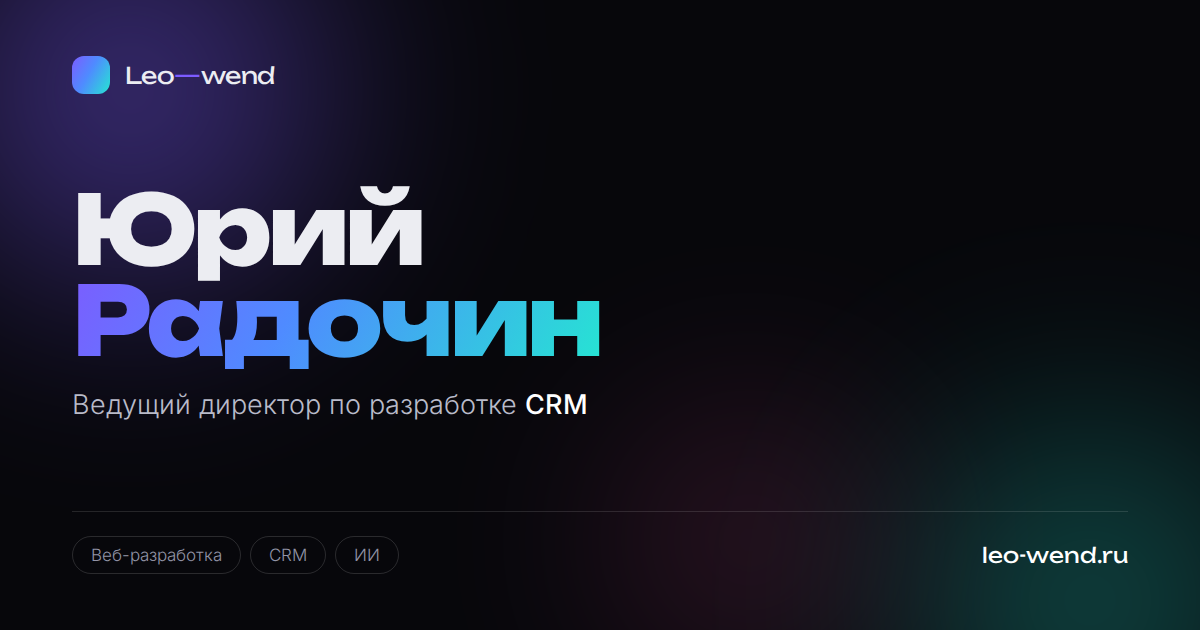
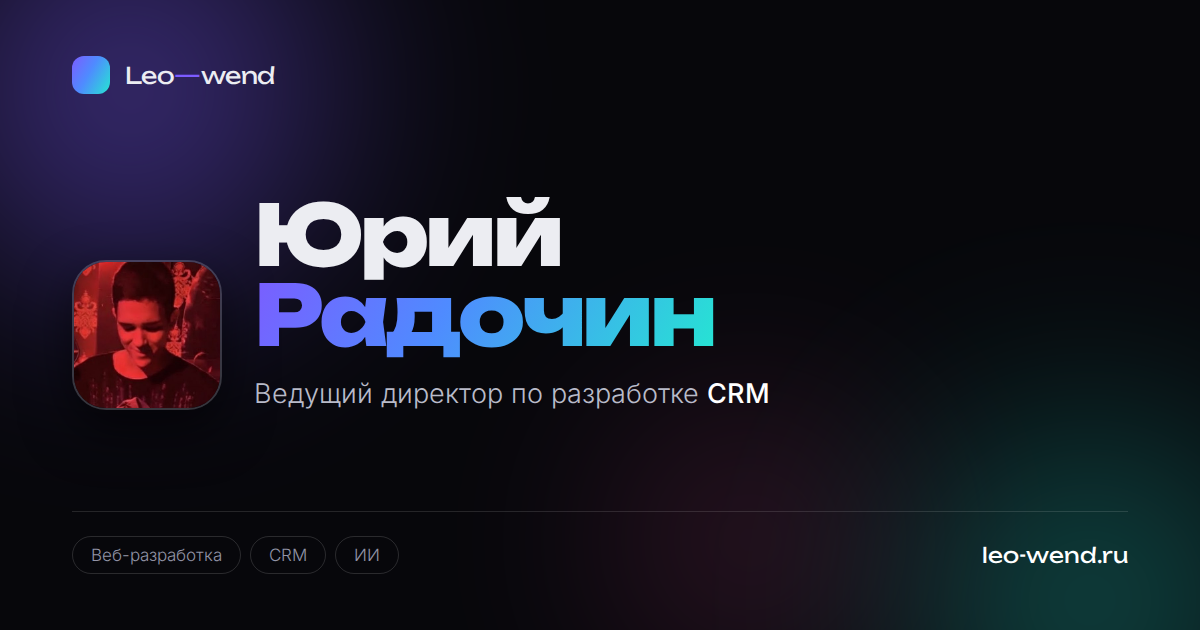
Профиль с обложкой и аватаром, подразделы, фото
- новый раздел «Профиль»: обложка, аватар, карточка данных
  (возраст, город, учёба, статус, проект, роль);
- «Обо мне» разбит на подразделы, добавлен портрет;
- «Направления» разделены на «Сейчас в работе» и «Изучал и пробовал»;
- убраны формулировки про поиск работы: контакты — просто для связи;
- фото нарезаны в три кадра (аватар, обложка, портрет), аватар добавлен
  в превью для соцсетей.

Claude-Session: https://claude.ai/code/session_01DrCrs8EP9XLSGEr72qkW1X

Changed region(s): [[0.0617, 0.2714, 0.6475, 0.6635]]

diff --git a/index.html b/index.html
@@ -68,6 +68,7 @@
     <span class="nav__logotext">Leo<i>—</i>wend</span>
   </a>
   <nav class="nav__menu" aria-label="Основная навигация">
+    <a href="#profile" data-link>Профиль</a>
     <a href="#about" data-link>Обо мне</a>
     <a href="#stack" data-link>Направления</a>
     <a href="#path" data-link>Путь</a>
@@ -81,11 +82,12 @@
 
 <div class="mmenu" id="mobileMenu" aria-hidden="true">
   <nav class="mmenu__list" aria-label="Мобильная навигация">
-    <a href="#about" data-link><em>01</em> Обо мне</a>
-    <a href="#stack" data-link><em>02</em> Направления</a>
-    <a href="#path" data-link><em>03</em> Путь</a>
-    <a href="#project" data-link><em>04</em> Проект</a>
-    <a href="#contact" data-link><em>05</em> Связаться</a>
+    <a href="#profile" data-link><em>01</em> Профиль</a>
+    <a href="#about" data-link><em>02</em> Обо мне</a>
+    <a href="#stack" data-link><em>03</em> Направления</a>
+    <a href="#path" data-link><em>04</em> Путь</a>
+    <a href="#project" data-link><em>05</em> Проект</a>
+    <a href="#contact" data-link><em>06</em> Связаться</a>
   </nav>
   <div class="mmenu__foot">
     <span>Юрий Радочин</span>
@@ -101,7 +103,7 @@
 
     <div class="hero__inner">
       <p class="hero__eyebrow" data-reveal>
-        <i class="dot"></i> Доступен для проектов · Краснодар
+        <i class="dot"></i> Leo-wend · Краснодар
       </p>
 
       <h1 class="hero__title" data-words>
@@ -122,7 +124,7 @@
             <span>Смотреть проект</span>
             <svg viewBox="0 0 24 24" aria-hidden="true"><path d="M5 12h14M13 6l6 6-6 6"/></svg>
           </a>
-          <a href="#contact" class="btn btn--ghost" data-magnet data-link><span>Связаться</span></a>
+          <a href="#profile" class="btn btn--ghost" data-magnet data-link><span>Мой профиль</span></a>
         </div>
       </div>
 
@@ -147,37 +149,100 @@
     </div>
   </div>
 
+  <!-- ─────────── ПРОФИЛЬ ─────────── -->
+  <section class="section profile" id="profile">
+    <div class="wrap">
+      <header class="shead">
+        <span class="shead__num" data-reveal>01</span>
+        <h2 class="shead__title" data-reveal>Профиль</h2>
+      </header>
+
+      <article class="pf" data-reveal>
+        <div class="pf__cover">
+          <img src="assets/img/cover.jpg" alt="" aria-hidden="true" width="1440" height="844" loading="lazy">
+          <span class="pf__veil" aria-hidden="true"></span>
+        </div>
+
+        <div class="pf__top">
+          <figure class="pf__ava">
+            <img src="assets/img/avatar.jpg" alt="Юрий Радочин" width="440" height="440">
+            <i class="pf__online" aria-hidden="true"></i>
+          </figure>
+
+          <div class="pf__id">
+            <h3 class="pf__name">Юрий Радочин</h3>
+            <p class="pf__tag">Разработка ( LoRi )</p>
+          </div>
+
+          <div class="pf__act">
+            <a class="btn btn--primary" href="https://t.me/ITLeoWend" target="_blank" rel="noopener" data-magnet>
+              <span>Telegram</span>
+              <svg viewBox="0 0 24 24" aria-hidden="true"><path d="M7 17L17 7M9 7h8v8"/></svg>
+            </a>
+            <a class="btn btn--ghost" href="https://vk.com/yundezi" target="_blank" rel="noopener" data-magnet>
+              <span>ВКонтакте</span>
+            </a>
+          </div>
+        </div>
+
+        <dl class="pf__grid">
+          <div><dt>Возраст</dt><dd>18 лет</dd></div>
+          <div><dt>Город</dt><dd>Краснодар</dd></div>
+          <div><dt>Образование</dt><dd>Академия ТОР, 3 курс</dd></div>
+          <div><dt>Статус</dt><dd>ИП</dd></div>
+          <div><dt>Проект</dt><dd>Leo-wend</dd></div>
+          <div><dt>Роль</dt><dd>Директор по разработке CRM</dd></div>
+        </dl>
+      </article>
+    </div>
+  </section>
+
   <!-- ─────────── ОБО МНЕ ─────────── -->
   <section class="section about" id="about">
     <div class="wrap">
       <header class="shead">
-        <span class="shead__num" data-reveal>01</span>
+        <span class="shead__num" data-reveal>02</span>
         <h2 class="shead__title" data-reveal>Обо мне</h2>
       </header>
 
       <div class="about__grid">
         <div class="about__text">
-          <p class="lead" data-reveal>
-            Меня зовут <b>Юрий Радочин</b>, мне 18 лет. Учусь на 3 курсе
-            <b>Компьютерной академии ТОР</b> и веду разработку в проекте <b>Leo-wend</b>.
-          </p>
-          <p data-reveal data-delay="1">
-            Я пробовал себя почти везде: информационная безопасность и анонимность,
-            социальная инженерия, разработка игр, 3D-моделирование. Каждое направление дало
-            свой угол зрения — понимание того, как системы ломаются, как думают пользователи
-            и как рождается визуал.
-          </p>
-          <p data-reveal data-delay="2">
-            В итоге я осознанно остался в <b>веб-разработке</b>: здесь всё это соединяется в
-            один продукт. Сейчас углубляюсь в <b>искусственный интеллект</b> и строю
-            CRM-решения, которые экономят людям часы каждый день.
-          </p>
-          <p data-reveal data-delay="3">
-            Работаю официально — оформлено <b>ИП</b>.
-          </p>
+          <section class="sub" data-reveal>
+            <h3 class="sub__title"><i aria-hidden="true"></i>Коротко</h3>
+            <p class="lead">
+              Меня зовут <b>Юрий Радочин</b>, мне 18 лет. Учусь на 3 курсе
+              <b>Компьютерной академии ТОР</b> и веду разработку в проекте <b>Leo-wend</b>.
+              Всё оформлено официально — есть <b>ИП</b>.
+            </p>
+          </section>
+
+          <section class="sub" data-reveal data-delay="1">
+            <h3 class="sub__title"><i aria-hidden="true"></i>Откуда я пришёл</h3>
+            <p>
+              Я пробовал себя почти везде: информационная безопасность и анонимность,
+              социальная инженерия, разработка игр, 3D-моделирование. Каждое направление дало
+              свой угол зрения — понимание того, как системы ломаются, как думают пользователи
+              и как рождается визуал.
+            </p>
+          </section>
+
+          <section class="sub" data-reveal data-delay="2">
+            <h3 class="sub__title"><i aria-hidden="true"></i>Чем занят сейчас</h3>
+            <p>
+              В итоге я осознанно остался в <b>веб-разработке</b>: здесь всё это соединяется в
+              один продукт. Сейчас углубляюсь в <b>искусственный интеллект</b> и строю
+              CRM-решения, которые экономят людям часы каждый день.
+            </p>
+          </section>
         </div>
 
-        <aside class="about__card" data-reveal data-delay="2" data-tilt>
+        <aside class="about__side">
+        <figure class="shot" data-reveal data-delay="1" data-tilt>
+          <img src="assets/img/portrait.jpg" alt="Юрий Радочин" width="620" height="878" loading="lazy">
+          <figcaption>Юрий Радочин</figcaption>
+        </figure>
+
+        <div class="about__card" data-reveal data-delay="2" data-tilt>
           <div class="about__card-glow" aria-hidden="true"></div>
           <ul class="facts">
             <li><span>Возраст</span><em><b data-count="18">18</b></em></li>
@@ -187,8 +252,9 @@
           </ul>
           <div class="about__card-foot">
             <i class="pulse" aria-hidden="true"></i>
-            <span>Открыт к сотрудничеству</span>
+            <span>Обычно отвечаю быстро</span>
           </div>
+        </div>
         </aside>
       </div>
     </div>
@@ -198,10 +264,12 @@
   <section class="section stack" id="stack">
     <div class="wrap">
       <header class="shead">
-        <span class="shead__num" data-reveal>02</span>
+        <span class="shead__num" data-reveal>03</span>
         <h2 class="shead__title" data-reveal>Направления</h2>
         <p class="shead__sub" data-reveal data-delay="1">Чем я занимаюсь и что успел попробовать</p>
       </header>
+
+      <h3 class="sub__title sub__title--wide" data-reveal><i aria-hidden="true"></i>Сейчас в работе</h3>
 
       <div class="cards">
         <article class="card card--hero" data-reveal data-tilt>
@@ -234,6 +302,11 @@
           <ul class="tags"><li>LLM</li><li>Автоматизация</li><li>Данные</li></ul>
         </article>
 
+      </div>
+
+      <h3 class="sub__title sub__title--wide" data-reveal><i aria-hidden="true"></i>Изучал и пробовал</h3>
+
+      <div class="cards">
         <article class="card" data-reveal data-tilt>
           <span class="card__idx">04</span>
           <div class="card__icon" aria-hidden="true">
@@ -271,7 +344,7 @@
   <section class="section path" id="path">
     <div class="wrap">
       <header class="shead">
-        <span class="shead__num" data-reveal>03</span>
+        <span class="shead__num" data-reveal>04</span>
         <h2 class="shead__title" data-reveal>Путь</h2>
         <p class="shead__sub" data-reveal data-delay="1">Как поиск себя превратился в специализацию</p>
       </header>
@@ -321,7 +394,7 @@
   <section class="section project" id="project">
     <div class="wrap">
       <header class="shead">
-        <span class="shead__num" data-reveal>04</span>
+        <span class="shead__num" data-reveal>05</span>
         <h2 class="shead__title" data-reveal>Проект</h2>
       </header>
 
@@ -367,17 +440,17 @@
   <section class="section contact" id="contact">
     <div class="wrap">
       <header class="shead">
-        <span class="shead__num" data-reveal>05</span>
+        <span class="shead__num" data-reveal>06</span>
         <h2 class="shead__title" data-reveal>Связаться</h2>
       </header>
 
       <div class="contact__box" data-reveal data-delay="1">
         <h3 class="contact__big" data-words>
           <span class="line"><span class="word" data-split>Давайте</span></span>
-          <span class="line"><span class="word word--outline">работать</span></span>
+          <span class="line"><span class="word word--outline">общаться</span></span>
         </h3>
         <p class="contact__sub" data-reveal data-delay="2">
-          Сайт, CRM или продукт с ИИ — напишите, обсудим задачу.
+          Пишите в Telegram или ВКонтакте — так быстрее всего.
         </p>
         <div class="contact__links" data-reveal data-delay="3">
           <a class="clink" href="https://t.me/ITLeoWend" target="_blank" rel="noopener" data-magnet>

diff --git a/assets/css/style.css b/assets/css/style.css
@@ -402,6 +402,92 @@ b,strong{font-weight:500;color:#fff}
 .about__card-foot{display:flex;align-items:center;gap:10px;margin-top:24px;font-size:13px;color:var(--muted)}
 .pulse{width:8px;height:8px;border-radius:50%;background:var(--cyan);box-shadow:0 0 0 0 rgba(37,230,210,.7);animation:ping 2.2s infinite}
 
+/* ─────────── ПРОФИЛЬ ─────────── */
+.pf{
+  position:relative;border:1px solid var(--line);border-radius:clamp(20px,3vw,30px);
+  background:linear-gradient(160deg,rgba(255,255,255,.05),rgba(255,255,255,.012));
+  overflow:hidden;
+}
+.pf__cover{position:relative;height:clamp(150px,26vw,280px);overflow:hidden}
+.pf__cover img{
+  width:100%;height:100%;object-fit:cover;object-position:50% 14%;
+  filter:saturate(1.1) contrast(1.05);
+  transform:scale(1.04);
+  transition:transform 1.2s var(--ease);
+}
+.pf:hover .pf__cover img{transform:scale(1.09)}
+.pf__veil{
+  position:absolute;inset:0;
+  background:
+    linear-gradient(180deg,rgba(7,7,11,.25) 0%,rgba(7,7,11,.55) 55%,var(--bg) 100%),
+    linear-gradient(100deg,rgba(124,92,255,.3),transparent 60%);
+}
+
+.pf__top{
+  position:relative;display:flex;align-items:flex-end;gap:clamp(16px,2.6vw,28px);
+  padding:0 clamp(20px,3.4vw,40px) clamp(22px,3vw,30px);
+  margin-top:clamp(-56px,-8vw,-44px);
+}
+.pf__ava{
+  position:relative;flex:none;margin:0;
+  width:clamp(96px,15vw,152px);height:clamp(96px,15vw,152px);
+  border-radius:28%;overflow:hidden;
+  border:3px solid var(--bg);
+  box-shadow:0 18px 44px rgba(0,0,0,.6),0 0 0 1px var(--line-strong);
+  background:var(--bg-soft);
+}
+.pf__ava img{width:100%;height:100%;object-fit:cover;object-position:50% 40%}
+.pf__online{
+  position:absolute;right:7%;bottom:7%;width:14px;height:14px;border-radius:50%;
+  background:var(--cyan);border:3px solid var(--bg);
+}
+.pf__id{flex:1 1 auto;min-width:0;padding-bottom:4px}
+.pf__name{
+  margin:0 0 4px;font-family:var(--display);font-weight:600;
+  font-size:clamp(21px,3.4vw,34px);letter-spacing:-.025em;line-height:1.1;
+}
+.pf__tag{margin:0;color:var(--muted);font-size:clamp(13px,1.6vw,15px)}
+.pf__act{display:flex;gap:10px;flex:none;padding-bottom:4px}
+.pf__act .btn{padding:12px 20px;font-size:13.5px}
+
+.pf__grid{
+  display:grid;grid-template-columns:repeat(3,1fr);gap:1px;margin:0;
+  background:var(--line);border-top:1px solid var(--line);
+}
+.pf__grid > div{padding:18px clamp(20px,3.4vw,40px);background:var(--bg-soft)}
+.pf__grid dt{font-size:11px;letter-spacing:.18em;text-transform:uppercase;color:var(--dim);margin-bottom:6px}
+.pf__grid dd{margin:0;font-size:15px;color:var(--text)}
+
+/* ─────────── ПОДРАЗДЕЛЫ ─────────── */
+.sub{margin-bottom:clamp(24px,3.4vw,38px)}
+.sub:last-child{margin-bottom:0}
+.sub__title{
+  display:flex;align-items:center;gap:11px;margin:0 0 12px;
+  font-family:var(--font);font-weight:500;font-size:12.5px;
+  letter-spacing:.18em;text-transform:uppercase;color:var(--muted);
+}
+.sub__title i{width:6px;height:6px;border-radius:50%;background:var(--grad);flex:none}
+.sub__title--wide{margin:0 0 20px}
+.stack .sub__title--wide:not(:first-of-type){margin-top:clamp(34px,5vw,54px)}
+
+/* ─────────── ФОТО ─────────── */
+.about__side{display:grid;gap:18px;align-content:start}
+.shot{
+  position:relative;margin:0;border-radius:var(--radius);overflow:hidden;
+  border:1px solid var(--line);background:var(--bg-soft);
+  transition:transform .5s var(--ease),border-color .4s;
+}
+.shot img{width:100%;height:auto;display:block;aspect-ratio:62/74;object-fit:cover;object-position:50% 22%}
+.shot::after{
+  content:"";position:absolute;inset:0;pointer-events:none;
+  background:linear-gradient(180deg,transparent 45%,rgba(7,7,11,.85) 100%);
+}
+.shot figcaption{
+  position:absolute;left:18px;bottom:16px;z-index:2;
+  font-size:12px;letter-spacing:.16em;text-transform:uppercase;color:rgba(255,255,255,.82);
+}
+.shot:hover{border-color:var(--line-strong)}
+
 /* ─────────── КАРТОЧКИ ─────────── */
 .cards{display:grid;grid-template-columns:repeat(3,1fr);gap:18px}
 .card{
@@ -557,10 +643,14 @@ b,strong{font-weight:500;color:#fff}
 @media (max-width:1080px){
   .cards{grid-template-columns:repeat(2,1fr)}
   .about__grid{grid-template-columns:1fr;gap:34px}
-  .about__card{max-width:520px}
+  .about__side{grid-template-columns:1fr 1fr;align-items:start}
+  .pf__grid{grid-template-columns:repeat(2,1fr)}
 }
 
 @media (max-width:900px){
+  .pf__top{flex-wrap:wrap;align-items:flex-start}
+  .pf__act{width:100%;padding-bottom:0}
+  .pf__act .btn{flex:1}
   .nav__menu{display:none}
   .burger{display:block}
   .pcard{grid-template-columns:1fr}
@@ -573,6 +663,12 @@ b,strong{font-weight:500;color:#fff}
 
 @media (max-width:640px){
   html{scroll-padding-top:80px}
+  .about__side{grid-template-columns:1fr}
+  .pf__grid{grid-template-columns:1fr}
+  .pf__grid > div{padding:15px 22px}
+  .pf__top{margin-top:-42px;gap:14px}
+  .pf__act{flex-direction:column;gap:8px}
+  .shot img{aspect-ratio:4/5}
   .cards{grid-template-columns:1fr}
   .hero{padding-top:104px;min-height:92svh}
   .hero__title{font-size:clamp(46px,15vw,84px)}

diff --git a/README.md b/README.md
@@ -3,6 +3,9 @@
 Одностраничный персональный сайт: веб-разработка, CRM и искусственный интеллект.
 Тёмная тема, крупная типографика, анимации на скролле, оптимизация под телефон.
 
+Разделы: **Профиль** (обложка, аватар, карточка данных) → **Обо мне** →
+**Направления** → **Путь** → **Проект** → **Связаться**.
+
 **Домен:** [leo-wend.ru](https://leo-wend.ru)
 
 ## Что внутри
@@ -14,7 +17,7 @@
 | `assets/css/fonts.css` | Подключение локальных шрифтов |
 | `assets/js/main.js` | Анимации и интерактив |
 | `assets/fonts/` | Unbounded + Inter (woff2, латиница и кириллица) |
-| `assets/img/` | Фавиконка и картинка для превью в соцсетях |
+| `assets/img/` | Фото, фавиконка и картинка для превью в соцсетях |
 
 Зависимостей и сборки нет — это статика. Достаточно открыть `index.html`.
 
@@ -31,6 +34,7 @@ python3 -m http.server 8000
 ## Анимации и интерактив
 
 - прелоадер со счётчиком загрузки;
+- обложка профиля плавно наезжает при наведении;
 - имя в первом экране собирается по буквам, фамилия выезжает градиентом;
 - живой фон из связанных точек на `<canvas>`, реагирует на курсор;
 - появление блоков при прокрутке (`IntersectionObserver`);
